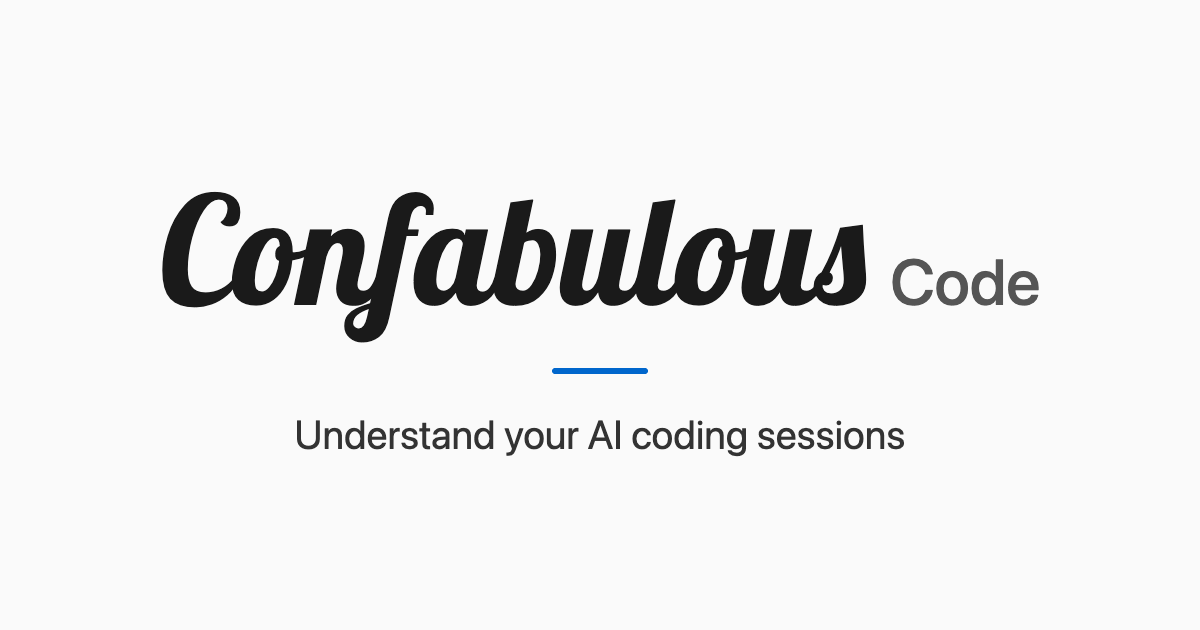
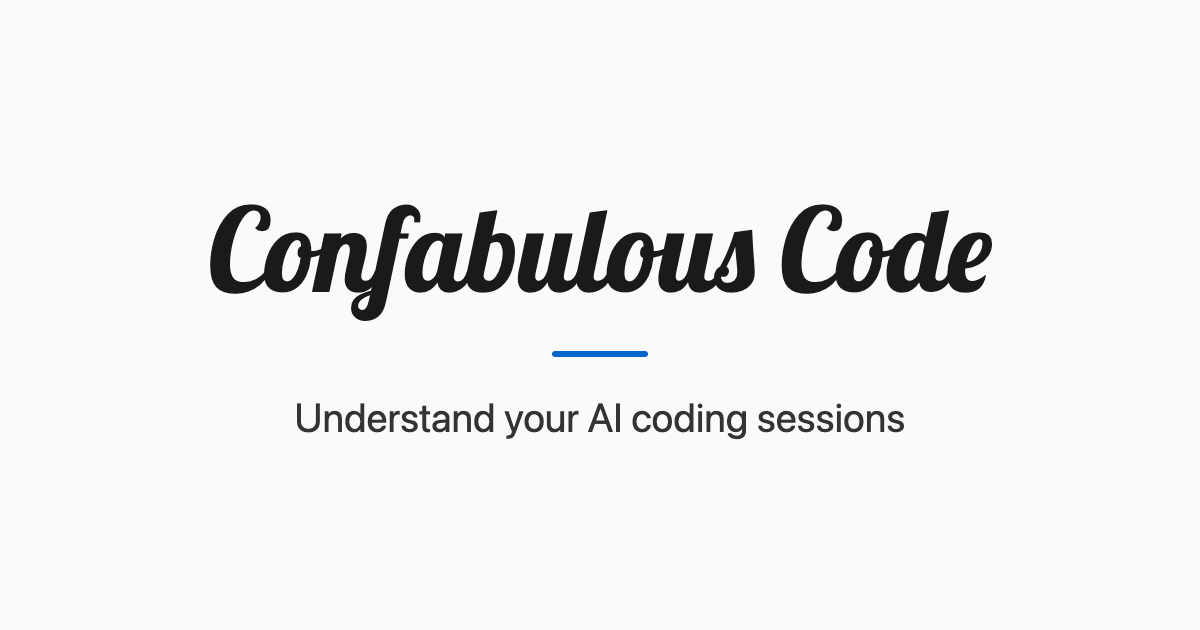
egn7: render the "Confabulous Code" wordmark in one typeface (all Lobster) (#450)
## Summary

The "Confabulous Code" wordmark is now set in one typeface, self-hosted
Lobster, everywhere it appears (kata `egn7`, all-Lobster per the user's
decision and UAT: "Just use lobster for both words, uniform"). Before,
"Confabulous" was in Lobster and a smaller "Code" in the system sans.

- **App header:** `Header.tsx` renders plain `Confabulous Code`;
`.logoSuffix` and its mobile override are gone. At ≤480px `.logo` drops
to 1.25rem so the header fits at 360px with the nav.
- **App OG image:** `frontend/scripts/og-image.html` sets one Lobster
line (116px); `frontend/public/og-image.png` re-rendered (1200×630).
- **Docs OG image → PNG:** new `docs/scripts/og-image.html` (dark
gradient, dot grid, tagline, no hostname) renders
`docs/public/og-image.png`. `docs/public/og-image.svg` (with its
never-loading Google Fonts `@import`) is deleted; `OG_IMAGE` now points
at the PNG.
- **Favicon:** new `frontend/scripts/make-favicon.mjs` (opentype.js via
`npx -p`, no new dependency) writes `frontend/public/favicon.svg` with
the Lobster "C" as a `<path>`: no `<style>`, no third-party font
request. The docs site uses a copy through Starlight's `favicon` option
(it had Starlight's default before).
- **Email header:** the Georgia-italic text is replaced by `<img
src="{FRONTEND_URL}/email-wordmark.png" width="182" height="28"
alt="Confabulous Code">`, with Georgia-italic alt styling for clients
that block images. New `frontend/public/email-wordmark.png` (364×56 at
[…]

Changed region(s): [[0.1233, 0.3016, 0.8633, 0.5429], [0.2467, 0.6333, 0.7708, 0.7238], [0.4625, 0.5429, 0.555, 0.6032]]

diff --git a/docs/scripts/og-image.html b/docs/scripts/og-image.html
@@ -1,0 +1,75 @@
+<!doctype html>
+<!--
+  Source for docs/public/og-image.png (the 1200x630 Open Graph / Twitter
+  link-preview image set as og:image in astro.config.mjs). Not served or
+  bundled. No hostname is baked in, so moving the docs host needs no re-render.
+
+  Re-render after editing (from docs/, after `npm install` so the self-hosted
+  Lobster font below resolves):
+
+    npx playwright screenshot --channel chrome --viewport-size "1200, 630" \
+      --wait-for-timeout 500 "file://$PWD/scripts/og-image.html" public/og-image.png
+-->
+<html lang="en">
+  <head>
+    <meta charset="UTF-8" />
+    <title>Confabulous Code docs OG image</title>
+    <style>
+      @font-face {
+        font-family: 'Lobster';
+        font-weight: 400;
+        src: url('../node_modules/@fontsource/lobster/files/lobster-latin-400-normal.woff2') format('woff2');
+      }
+      html,
+      body {
+        margin: 0;
+        width: 1200px;
+        height: 630px;
+        overflow: hidden;
+        background: linear-gradient(135deg, #0f172a 0%, #1e293b 100%);
+        color: #f8fafc;
+      }
+      body {
+        position: relative;
+        display: flex;
+        flex-direction: column;
+        align-items: center;
+        justify-content: center;
+        font-family: system-ui, -apple-system, BlinkMacSystemFont, 'Segoe UI', sans-serif;
+      }
+      .dot {
+        position: absolute;
+        width: 4px;
+        height: 4px;
+        margin: -2px 0 0 -2px;
+        border-radius: 50%;
+        background: #334155;
+        opacity: 0.4;
+      }
+      .name {
+        font-family: 'Lobster', cursive;
+        font-size: 116px;
+        line-height: 1;
+        white-space: nowrap;
+      }
+      .tagline {
+        margin-top: 48px;
+        font-size: 34px;
+        color: #cbd5e1;
+      }
+    </style>
+  </head>
+  <body>
+    <!-- Decorative dot grid (same positions as the old og-image.svg). -->
+    <span class="dot" style="left: 80px; top: 80px"></span>
+    <span class="dot" style="left: 160px; top: 80px"></span>
+    <span class="dot" style="left: 240px; top: 80px"></span>
+    <span class="dot" style="left: 1040px; top: 550px"></span>
+    <span class="dot" style="left: 1120px; top: 550px"></span>
+    <span class="dot" style="left: 1040px; top: 470px"></span>
+    <span class="dot" style="left: 1120px; top: 470px"></span>
+
+    <div class="name">Confabulous Code</div>
+    <div class="tagline">Open-source analytics for your Claude Code and Codex sessions</div>
+  </body>
+</html>

diff --git a/frontend/scripts/email-wordmark.html b/frontend/scripts/email-wordmark.html
@@ -1,0 +1,49 @@
+<!doctype html>
+<!--
+  Source for frontend/public/email-wordmark.png: the "Confabulous Code"
+  wordmark in the share-invitation email header (backend/internal/email,
+  <img src="{FRONTEND_URL}/email-wordmark.png" width="182" height="28">).
+  Rendered at 2x (364x56) and tightly cropped. The background is opaque white
+  so dark-mode mail clients can't put the dark text on a dark background.
+  Not served or bundled.
+
+  Re-render after editing (from frontend/, after `npm install` so the
+  self-hosted Lobster font below resolves):
+
+    npx playwright screenshot --channel chrome --viewport-size "364, 56" \
+      --wait-for-timeout 500 "file://$PWD/scripts/email-wordmark.html" public/email-wordmark.png
+
+  If the size changes, update width/height on the <img> in email.go to half
+  the new viewport.
+-->
+<html lang="en">
+  <head>
+    <meta charset="UTF-8" />
+    <title>Confabulous Code email wordmark</title>
+    <style>
+      @font-face {
+        font-family: 'Lobster';
+        font-weight: 400;
+        src: url('../node_modules/@fontsource/lobster/files/lobster-latin-400-normal.woff2') format('woff2');
+      }
+      html,
+      body {
+        margin: 0;
+        width: 364px;
+        height: 56px;
+        overflow: hidden;
+        background: #ffffff;
+      }
+      svg {
+        display: block;
+      }
+    </style>
+  </head>
+  <body>
+    <!-- Lobster ink spans 0.75em above the baseline to 0.25em below, so a
+         52px font with its baseline at y=41 fills 2..54 of the 56px height. -->
+    <svg width="364" height="56" viewBox="0 0 364 56" xmlns="http://www.w3.org/2000/svg">
+      <text x="3" y="41" font-family="Lobster" font-size="52" fill="#1a1a1a">Confabulous Code</text>
+    </svg>
+  </body>
+</html>

diff --git a/frontend/src/components/Header.test.tsx b/frontend/src/components/Header.test.tsx
@@ -74,6 +74,24 @@ describe('Header logo badge', () => {
     expect(screen.getByText('demo')).toBeInTheDocument();
   });
 
+  // egn7: the wordmark is one run of text in one typeface (no smaller
+  // "Code" suffix span in a second font).
+  it('renders the wordmark "Confabulous Code" as a single text run with no suffix span', () => {
+    renderHeader();
+    const link = screen.getByRole('link', { name: 'Confabulous Code' });
+    expect(link.querySelector('span')).toBeNull();
+    expect(link.textContent).toBe('Confabulous Code');
+  });
+
+  it('keeps the demo badge as the only span inside the wordmark link', () => {
+    window.__DEMO_IDENTITY__ = 'demo@confabulous.dev';
+    renderHeader();
+    const link = screen.getByRole('link', { name: /^Confabulous Code\s*demo$/ });
+    const spans = link.querySelectorAll('span');
+    expect(spans).toHaveLength(1);
+    expect(spans[0]).toHaveTextContent('demo');
+  });
+
   it('still renders no badge when window.__DEMO_IDENTITY__ is an empty string', () => {
     window.__DEMO_IDENTITY__ = '';
     renderHeader();

diff --git a/frontend/src/components/Header.stories.tsx b/frontend/src/components/Header.stories.tsx
@@ -1,5 +1,5 @@
 import type { Meta, StoryObj } from '@storybook/react-vite';
-import { useEffect, type ReactNode } from 'react';
+import { useEffect, useState, type ReactNode } from 'react';
 import { MemoryRouter } from 'react-router-dom';
 import { QueryClient, QueryClientProvider } from '@tanstack/react-query';
 import Header from './Header';
@@ -77,8 +77,12 @@ export const LoggedInNoAvatar: Story = {
 
 // CF-483: when DEMO_IDENTITY_EMAIL is set, the backend injects
 // window.__DEMO_IDENTITY__ and the header shows a "demo" badge next to
-// the logo.
+// the logo. Set it during the first render (the useState initializer), not
+// only in the effect: Logo reads it while rendering, before effects run.
 function WithDemoIdentity({ email, children }: { email: string; children: ReactNode }) {
+  useState(() => {
+    window.__DEMO_IDENTITY__ = email;
+  });
   useEffect(() => {
     window.__DEMO_IDENTITY__ = email;
     return () => {

diff --git a/frontend/scripts/og-image.html b/frontend/scripts/og-image.html
@@ -38,20 +38,11 @@
         justify-content: center;
         font-family: -apple-system, BlinkMacSystemFont, 'Segoe UI', Roboto, Oxygen, Ubuntu, sans-serif;
       }
-      .wordmark {
-        display: flex;
-        align-items: baseline;
-        gap: 24px;
-        line-height: 1;
-      }
       .name {
         font-family: 'Lobster', cursive;
-        font-size: 150px;
-      }
-      .suffix {
-        font-size: 64px;
-        font-weight: 500;
-        color: #555555;
+        font-size: 116px;
+        line-height: 1;
+        white-space: nowrap;
       }
       .rule {
         width: 96px;
@@ -68,10 +59,7 @@
     </style>
   </head>
   <body>
-    <div class="wordmark">
-      <span class="name">Confabulous</span>
-      <span class="suffix">Code</span>
-    </div>
+    <div class="name">Confabulous Code</div>
     <div class="rule"></div>
     <div class="tagline">Understand your AI coding sessions</div>
   </body>

diff --git a/frontend/src/components/Header.module.css b/frontend/src/components/Header.module.css
@@ -20,14 +20,6 @@
   flex-shrink: 0;
 }
 
-.logoSuffix {
-  font-family: system-ui, sans-serif;
-  font-size: 0.875rem;
-  font-weight: 500;
-  margin-left: 0.125rem;
-  color: var(--color-text-secondary);
-}
-
 .logo:hover {
   color: var(--color-text-primary);
 }
@@ -227,8 +219,10 @@
     padding: 0 var(--spacing-md);
   }
 
-  .logoSuffix {
-    font-size: 0.75rem;
+  /* The all-Lobster wordmark is wider than the old mixed one; shrink it so
+     the header fits at 360px with the nav present. */
+  .logo {
+    font-size: 1.25rem;
   }
 
   .nav {

diff --git a/frontend/src/components/Header.tsx b/frontend/src/components/Header.tsx
@@ -14,7 +14,7 @@ function Logo() {
   const demoEmail = getDemoIdentity();
   return (
     <Link to="/" className={styles.logo}>
-      Confabulous <span className={styles.logoSuffix}>Code</span>
+      Confabulous Code
       {demoEmail !== null && <span className={styles.badge}>demo</span>}
     </Link>
   );

diff --git a/backend/internal/email/email_test.go b/backend/internal/email/email_test.go
@@ -410,6 +410,51 @@ func TestRenderHTMLTemplate(t *testing.T) {
 	})
 }
 
+// egn7: the email header shows the Lobster wordmark as a hosted PNG (served
+// from frontend/public at the FRONTEND_URL root) with styled alt text, in
+// place of the old Georgia-italic text span.
+func TestRenderHTMLTemplate_WordmarkImage(t *testing.T) {
+	params := ShareInvitationParams{
+		ToEmail:     "test@example.com",
+		SharerName:  "Alice",
+		SharerEmail: "alice@example.com",
+		ShareURL:    "https://example.com/share/abc123",
+	}
+
+	cases := []struct {
+		name        string
+		frontendURL string
+		wantSrc     string
+	}{
+		{"plain base URL", "https://example.com", `src="https://example.com/email-wordmark.png"`},
+		{"trailing slash is trimmed", "https://example.com/", `src="https://example.com/email-wordmark.png"`},
+		{"multiple trailing slashes are trimmed", "https://example.com//", `src="https://example.com/email-wordmark.png"`},
+	}
+	for _, tc := range cases {
+		t.Run(tc.name, func(t *testing.T) {
+			result, err := renderHTMLTemplate(params, tc.frontendURL)
+			if err != nil {
+				t.Fatalf("unexpected error: %v", err)
+			}
+			if !strings.Contains(result, "<img") {
+				t.Error("must render the wordmark as an <img>")
+			}
+			if !strings.Contains(result, tc.wantSrc) {
+				t.Errorf("must point the wordmark at %s; got HTML without it", tc.wantSrc)
+			}
+			if !strings.Contains(result, `alt="Confabulous Code"`) {
+				t.Error(`must give the wordmark alt="Confabulous Code"`)
+			}
+			if strings.Contains(result, `font-size: 22px; color: #1a1a1a;">Confabulous Code</span>`) {
+				t.Error("must no longer render the Georgia-italic text span wordmark")
+			}
+			if !strings.Contains(result, `href="https://example.com/unsubscribe"`) {
+				t.Error("must build the unsubscribe URL from the same trimmed base")
+			}
+		})
+	}
+}
+
 // providerWordingCases is the locked test matrix for CF-353. Each row asserts
 // that the rendered email (subject, plaintext body, HTML body) contains the
 // brand phrase matching params.Provider and that no other brand phrase leaks

diff --git a/backend/internal/email/email.go b/backend/internal/email/email.go
@@ -7,6 +7,7 @@ import (
 	"fmt"
 	"html/template"
 	"net/http"
+	"strings"
 	"sync"
 	"time"
 
@@ -262,12 +263,14 @@ func renderHTMLTemplate(params ShareInvitationParams, frontendURL string) (strin
 // provider phrase so SendShareInvitation logs unknown-provider errors only
 // once per send.
 func renderHTMLTemplateWithPhrase(params ShareInvitationParams, phrase, frontendURL string) (string, error) {
+	base := strings.TrimRight(frontendURL, "/")
 	data := templateData{
 		SharerName:     params.SharerName,
 		SharerEmail:    params.SharerEmail,
 		SessionTitle:   params.SessionTitle,
 		ShareURL:       params.ShareURL,
-		UnsubscribeURL: frontendURL + "/unsubscribe",
+		UnsubscribeURL: base + "/unsubscribe",
+		WordmarkURL:    base + "/email-wordmark.png",
 		ProviderPhrase: phrase,
 	}
 
@@ -324,6 +327,9 @@ type templateData struct {
 	ShareURL       string
 	ExpiresAt      string
 	UnsubscribeURL string
+	// WordmarkURL is the hosted Lobster wordmark PNG
+	// (frontend/public/email-wordmark.png, served at the FRONTEND_URL root).
+	WordmarkURL string
 	// ProviderPhrase is the resolved per-provider noun phrase used in the
 	// body line "shared a {{.ProviderPhrase}} transcript with you:".
 	// Examples: "Claude Code session" / "Codex session" / "session".
@@ -362,7 +368,7 @@ const htmlTemplate = `<!DOCTYPE html>
                     <!-- Header -->
                     <tr>
                         <td style="padding: 16px 24px; border-bottom: 1px solid #e5e5e5;">
-                            <span style="font-family: Georgia, 'Times New Roman', serif; font-style: italic; font-size: 22px; color: #1a1a1a;">Confabulous Code</span>
+                            <img src="{{.WordmarkURL}}" width="182" height="28" alt="Confabulous Code" style="display: block; border: 0; font-family: Georgia, 'Times New Roman', serif; font-style: italic; font-size: 22px; color: #1a1a1a;">
                         </td>
                     </tr>
                     <!-- Content -->

diff --git a/frontend/src/components/README.md b/frontend/src/components/README.md
@@ -29,7 +29,7 @@ Root-level files are **shared, reusable components** used across multiple pages.
 | `FilterChipsBar.tsx` | Horizontal bar of dimension dropdowns + active filter chips with clear-all and optional history commit on blur. Dimensions: Provider (static enum, opt out via `showProviderFilter={false}`), Repo, Branch, Owner. `DimensionDropdown` (named export) accepts optional `iconFor` / `labelFor` for per-option icons and display labels (used by Provider), and `initialOpen` for stories/tests. Renders a subtle divider between selected and unselected items when both groups are present. |
 | `Footer.tsx` | App footer (SaaS mode only). Links: Docs (`DOCS_URL`), GitHub, Discord, Report an issue (`GITHUB_ISSUES_URL`), Help (mailto), and Policies. Docs + Report links added in CF-571. |
 | `FormField.tsx` | Form field wrapper with label and validation error display |
-| `Header.tsx` | App header with navigation and auth state. Renders a "demo" badge next to the logo when `window.__DEMO_IDENTITY__` is set (CF-483); no badge in normal deployments. Sessions and Trends nav links pre-fill `?owner=<your email>` for normal users (CF-495 added Trends to the pattern; nav label renamed "Personal Trends" → "Trends"); the demo identity skips the pre-filter so the page isn't collapsed to zero rows. The avatar dropdown carries "Documentation" (`DOCS_URL`) and "Report an issue" (`GITHUB_ISSUES_URL`) links, shown to every authenticated user regardless of SaaS config so self-hosted instances surface them too (CF-571). |
+| `Header.tsx` | App header with navigation and auth state. The wordmark is "Confabulous Code" as one run of Lobster text (shrunk to 1.25rem at ≤480px so it fits at 360px). Renders a "demo" badge next to the logo when `window.__DEMO_IDENTITY__` is set (CF-483); no badge in normal deployments. Sessions and Trends nav links pre-fill `?owner=<your email>` for normal users (CF-495 added Trends to the pattern; nav label renamed "Personal Trends" → "Trends"); the demo identity skips the pre-filter so the page isn't collapsed to zero rows. The avatar dropdown carries "Documentation" (`DOCS_URL`) and "Report an issue" (`GITHUB_ISSUES_URL`) links, shown to every authenticated user regardless of SaaS config so self-hosted instances surface them too (CF-571). |
 | `HeroCards.tsx` | Landing page hero grid (CF-503). Ten feature cards (Quickstart lives separately above CTALinks via `Quickstart variant="landing"`). Each card has a fixed icon + title + description and a right-aligned link footer: `Demo →` (when a deep-link exists on `code-demo.confabulous.dev`) followed by one or more docs links into `code-docs.confabulous.dev`. Multi-provider has four provider doc links (`Claude Code →   Codex →   OpenCode →   Cursor →`). Every link opens in a new tab with `rel="noopener noreferrer"` and an `aria-label` of `'{card title}: {link label}[ docs]'` to disambiguate the 20+ identically-named links for screen readers. Cards are not click targets. |
 | `icons.tsx` | SVG icon components (ClaudeCodeIcon, CodexIcon, GitHubIcon, etc.) |
 | `providerIcon.ts` | `getProviderIcon(provider)` -- delegates to `getProviderMetadataOrFallback(provider, 'neutral')` and falls back to `RobotIcon` when no metadata matches (CF-366). Canonical and legacy values (`'claude-code'`, `'codex'`, `'Claude Code'`, `'CLAUDE-CODE'`) still resolve to their brand icon; truly unknown values render the neutral glyph rather than impersonating Claude. Lives in its own file to keep `icons.tsx` JSX-only for HMR fast-refresh |

diff --git a/backend/internal/email/README.md b/backend/internal/email/README.md
@@ -41,6 +41,7 @@ Email sending via the Resend API, with per-user sliding-window rate limiting.
 - **Sliding window, not token bucket.** `EmailRateLimiter` tracks exact timestamps and counts emails within the last hour. This prevents bursts, unlike the token-bucket approach used in `internal/ratelimit`. The distinction is intentional (see code comment in `email.go`).
 - **Thread safety.** `EmailRateLimiter` is protected by a `sync.Mutex`. All public methods acquire the lock.
 - **Rate check before send.** `RateLimitedService.SendShareInvitation` checks the limit and records the attempt before calling the inner service. The count is incremented even if the send fails, preventing retries from bypassing the limit.
+- **Wordmark is a hosted image.** The HTML header shows `<FRONTEND_URL>/email-wordmark.png` (the Lobster wordmark, generated from `frontend/scripts/email-wordmark.html` and served from `frontend/public/`) with `alt="Confabulous Code"` styled in Georgia italic, so clients that block remote images (or self-hosters whose `FRONTEND_URL` isn't publicly reachable) still show the name. The base URL has trailing slashes trimmed before `/email-wordmark.png` and `/unsubscribe` are appended.
 - **Both HTML and plain text.** Every email is sent with both an HTML body (using `html/template`) and a plain text fallback.
 - **Provider-aware wording.** Share invitations identify the agent in the subject and body ("Claude Code session" / "Codex session"). Unknown or empty `Provider` values fall back to the neutral phrase "session" and emit an `ERROR` log via `logger.Ctx(ctx)` carrying `provider`, `share_id`, `to_email` so on-call notices unrecognised values. Resolution happens once per send (in `SendShareInvitation`) so the log fires exactly once, not once per template render.
 

diff --git a/docs/README.md b/docs/README.md
@@ -125,7 +125,8 @@ Powered by [Pagefind](https://pagefind.app/) (built into Starlight). The index i
 
 - **`sitemap-index.xml`** — generated automatically by Starlight on every build.
 - **`robots.txt`** — at `public/robots.txt`, permissive (allows all crawlers, references the sitemap).
-- **OpenGraph / Twitter cards** — site-wide defaults in `astro.config.mjs`. The default OG image is `public/og-image.svg` (Lobster wordmark + tagline on a dark gradient). For best compatibility with Facebook/LinkedIn previews, rasterize it to `og-image.png` (1200×630) and update the `OG_IMAGE` const in `astro.config.mjs`. Per-page frontmatter can override the default.
+- **OpenGraph / Twitter cards** — site-wide defaults in `astro.config.mjs`. The default OG image is `public/og-image.png` (1200×630: Lobster wordmark + tagline on a dark gradient, no hostname), rendered from `scripts/og-image.html` (re-render command in that file's header). Per-page frontmatter can override the default.
+- **Favicon** — `public/favicon.svg` (Starlight `favicon` option) is a copy of the app's `frontend/public/favicon.svg`, generated by `frontend/scripts/make-favicon.mjs`; re-copy it when that changes.
 
 ## Analytics
 
